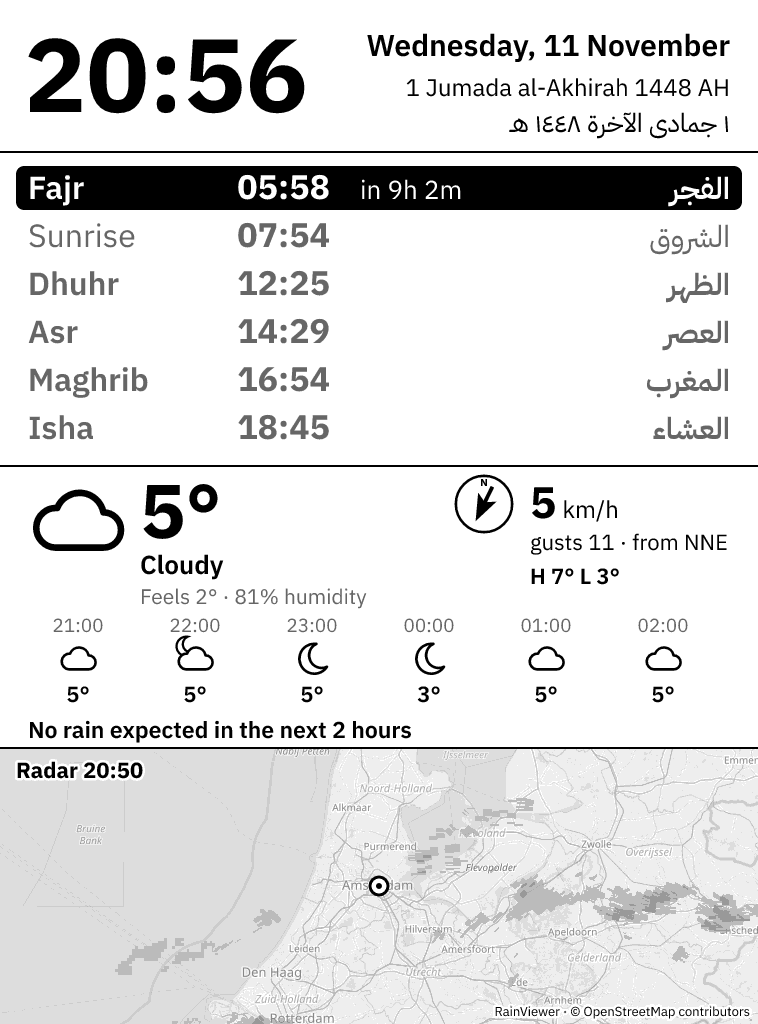
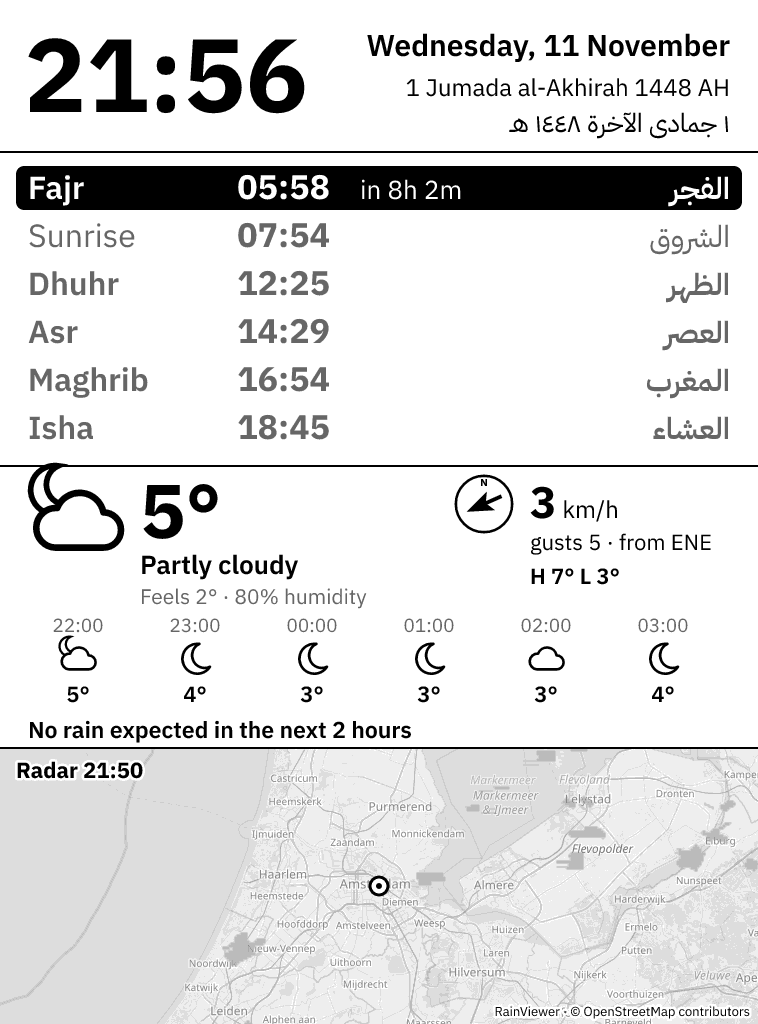
Zoom the map past 7 by magnifying RainViewer's zoom-7 radar
RainViewer's free tiles stop at zoom 7 (~300 km across), which is too wide
for a home dashboard. The basemap now renders at zoom 3..=9 (default 8),
and radar tiles for the same area are fetched at zoom 7 and magnified with
bilinear smoothing.

diff --git a/src/radar/mod.rs b/src/radar/mod.rs
@@ -1,7 +1,8 @@
 //! Rain radar from RainViewer over an OpenStreetMap basemap, as one grayscale image.
 //!
 //! Both layers share one Web Mercator pixel space: RainViewer 512 px tiles at zoom `z`
-//! line up with OSM 256 px tiles at `z + 1`.
+//! line up with OSM 256 px tiles at `z + 1`. RainViewer stops at zoom 7, so deeper maps
+//! fetch its zoom-7 tiles for the same area and magnify them.
 
 mod palette;
 
@@ -52,6 +53,26 @@ impl Viewport {
         }
     }
 
+    /// The same area at `zoom` (no deeper than this one), one pixel larger on each axis
+    /// so magnifying it back covers every edge pixel.
+    fn coarser(&self, zoom: Zoom) -> Coarse {
+        let factor = 1u32 << (self.zoom.level() - zoom.level());
+        let scale = f64::from(factor);
+        let viewport = Viewport {
+            left: (self.left / scale).floor(),
+            top: (self.top / scale).floor(),
+            width: self.width.div_ceil(factor) + 1,
+            height: self.height.div_ceil(factor) + 1,
+            zoom,
+        };
+        Coarse {
+            factor,
+            left: (self.left - viewport.left * scale) as i64,
+            top: (self.top - viewport.top * scale) as i64,
+            viewport,
+        }
+    }
+
     /// Tiles of `tile_px` that cover the viewport, and where each lands in it.
     fn placements(&self, tile_px: u32) -> Vec<Placement> {
         let size = f64::from(tile_px);
@@ -75,6 +96,15 @@ impl Viewport {
 
 fn world_size(zoom: Zoom) -> f64 {
     f64::from(RADAR_TILE) * f64::from(1u32 << zoom.level())
+}
+
+/// A lower-zoom viewport and where the original sits inside it once magnified.
+#[derive(Debug, Clone, Copy, PartialEq)]
+struct Coarse {
+    viewport: Viewport,
+    factor: u32,
+    left: i64,
+    top: i64,
 }
 
 #[derive(Debug, Clone, Copy, PartialEq, Eq)]
@@ -164,22 +194,34 @@ impl RadarClient {
             .context("RainViewer returned no radar frames")?;
         let observed_at =
             DateTime::from_timestamp(frame.time, 0).context("radar frame time out of range")?;
-        let zoom = viewport.zoom.level();
+        let coarse = viewport.coarser(viewport.zoom.radar());
+        let zoom = coarse.viewport.zoom.level();
+        let blank = Gray::filled(coarse.viewport.width, coarse.viewport.height, 255);
         // Options `0_0`: unsmoothed, so pixels match the palette exactly; no separate snow colors.
+        let rain = self
+            .composite(
+                &coarse.viewport,
+                RADAR_TILE,
+                blank,
+                rain_gray,
+                replace,
+                |p| {
+                    format!(
+                        "{}{}/{RADAR_TILE}/{zoom}/{}/{}/2/0_0.png",
+                        maps.host, frame.path, p.x, p.y
+                    )
+                },
+            )?
+            .magnified(
+                coarse.factor,
+                coarse.left,
+                coarse.top,
+                viewport.width,
+                viewport.height,
+            );
         // The darker value wins so map labels stay visible under rain.
-        let map = self.composite(
-            viewport,
-            RADAR_TILE,
-            basemap.0.clone(),
-            rain_gray,
-            u8::min,
-            |p| {
-                format!(
-                    "{}{}/{RADAR_TILE}/{zoom}/{}/{}/2/0_0.png",
-                    maps.host, frame.path, p.x, p.y
-                )
-            },
-        )?;
+        let mut map = basemap.0.clone();
+        map.blit(&rain, 0, 0, u8::min);
         Ok(RadarImage { observed_at, map })
     }
 
@@ -260,6 +302,25 @@ mod tests {
                 .iter()
                 .all(|&(x, y)| covered(x, y) == 1)
         );
+    }
+
+    #[test]
+    fn coarser_viewport_covers_the_same_area() {
+        let zoom = Zoom::try_from(9).unwrap();
+        let v = Viewport::centered(&location(41.0, -71.0), zoom, 758, 276);
+        let c = v.coarser(zoom.radar());
+        assert_eq!(c.factor, 4);
+        assert_eq!(c.viewport.zoom.level(), 7);
+        let s = f64::from(c.factor);
+        assert!((0..4).contains(&c.left) && (0..4).contains(&c.top));
+        assert!(c.viewport.left * s <= v.left && c.viewport.top * s <= v.top);
+        let right = (c.viewport.left + f64::from(c.viewport.width)) * s;
+        let bottom = (c.viewport.top + f64::from(c.viewport.height)) * s;
+        assert!(right >= v.left + f64::from(v.width) && bottom >= v.top + f64::from(v.height));
+        // At the radar's own zoom nothing is magnified.
+        let same = Viewport::centered(&location(41.0, -71.0), Zoom::try_from(7).unwrap(), 758, 276);
+        let c = same.coarser(Zoom::try_from(7).unwrap());
+        assert_eq!((c.factor, c.left, c.top), (1, 0, 0));
     }
 
     #[test]

diff --git a/src/image.rs b/src/image.rs
@@ -39,6 +39,35 @@ impl Gray {
         });
     }
 
+    /// A `width`×`height` window of this image magnified `factor` times, starting
+    /// `(left, top)` magnified pixels in, with bilinear smoothing. Edges are clamped.
+    pub fn magnified(&self, factor: u32, left: i64, top: i64, width: u32, height: u32) -> Gray {
+        let scale = f64::from(factor);
+        // Source coordinate of an output pixel's center.
+        let source = |out: u32, offset: i64, len: u32| {
+            let u = ((f64::from(out) + offset as f64 + 0.5) / scale - 0.5)
+                .clamp(0.0, f64::from(len - 1));
+            let i = u.floor() as u32;
+            (i, (i + 1).min(len - 1), u - f64::from(i))
+        };
+        let at = |x: u32, y: u32| f64::from(self.pixels[(y * self.width + x) as usize]);
+        let pixels = (0..height)
+            .flat_map(|y| (0..width).map(move |x| (x, y)))
+            .map(|(x, y)| {
+                let (x0, x1, fx) = source(x, left, self.width);
+                let (y0, y1, fy) = source(y, top, self.height);
+                let top_row = at(x0, y0) * (1.0 - fx) + at(x1, y0) * fx;
+                let bottom_row = at(x0, y1) * (1.0 - fx) + at(x1, y1) * fx;
+                (top_row * (1.0 - fy) + bottom_row * fy).round() as u8
+            })
+            .collect();
+        Gray {
+            width,
+            height,
+            pixels,
+        }
+    }
+
     pub fn encode_png(&self) -> anyhow::Result<Vec<u8>> {
         let mut out = Vec::new();
         let mut encoder = png::Encoder::new(&mut out, self.width, self.height);
@@ -127,6 +156,27 @@ mod tests {
         );
         canvas.blit(&tile, 10, 0, replace);
         canvas.blit(&tile, -10, 0, replace);
+    }
+
+    #[test]
+    fn magnify_by_one_is_a_crop() {
+        let image = Gray {
+            width: 3,
+            height: 2,
+            pixels: vec![0, 10, 20, 30, 40, 50],
+        };
+        assert_eq!(image.magnified(1, 1, 0, 2, 2).pixels, vec![10, 20, 40, 50]);
+    }
+
+    #[test]
+    fn magnify_interpolates_between_pixels() {
+        let image = Gray {
+            width: 2,
+            height: 1,
+            pixels: vec![0, 200],
+        };
+        let wide = image.magnified(2, 0, 0, 4, 1);
+        assert_eq!(wide.pixels, vec![0, 50, 150, 200]);
     }
 
     #[test]

diff --git a/src/config.rs b/src/config.rs
@@ -194,28 +194,36 @@ pub struct RadarConfig {
 
 impl Default for RadarConfig {
     fn default() -> Self {
-        Self { zoom: Zoom(7) }
+        Self { zoom: Zoom(8) }
     }
 }
 
-/// RainViewer's free tiles stop at zoom 7 (since 2026); below 3 the map is a continent.
-#[derive(Debug, Clone, Copy, PartialEq, Eq, Deserialize)]
+/// Map zoom. Below 3 the map is a continent; past 9 the upscaled radar is mush.
+#[derive(Debug, Clone, Copy, PartialEq, Eq, PartialOrd, Ord, Deserialize)]
 #[serde(try_from = "u8")]
 pub struct Zoom(u8);
+
+/// RainViewer's free tiles stop at zoom 7 (since 2026); deeper maps upscale its radar.
+const MAX_RADAR_ZOOM: Zoom = Zoom(7);
 
 impl Zoom {
     pub fn level(self) -> u8 {
         self.0
+    }
+
+    /// The zoom radar tiles are fetched at.
+    pub fn radar(self) -> Zoom {
+        self.min(MAX_RADAR_ZOOM)
     }
 }
 
 impl TryFrom<u8> for Zoom {
     type Error = String;
     fn try_from(value: u8) -> Result<Self, Self::Error> {
-        (3..=7)
+        (3..=9)
             .contains(&value)
             .then_some(Self(value))
-            .ok_or_else(|| format!("radar zoom {value} is outside 3..=7"))
+            .ok_or_else(|| format!("radar zoom {value} is outside 3..=9"))
     }
 }
 
@@ -256,14 +264,14 @@ mod tests {
     fn example_config_parses() {
         let config: Config = toml::from_str(include_str!("../config.example.toml")).unwrap();
         assert_eq!(config.prayer.method, CalculationMethod::MuslimWorldLeague);
-        assert_eq!(config.radar.zoom.level(), 7);
+        assert_eq!(config.radar.zoom.level(), 8);
     }
 
     #[test]
     fn rejects_out_of_range_values() {
         let base = "[location]\nlatitude = 91.0\nlongitude = 0.0\ntimezone = \"UTC\"\n[prayer]\nmethod = \"egyptian\"\n";
         assert!(toml::from_str::<Config>(base).is_err());
-        let zoom = base.replace("91.0", "30.0") + "[radar]\nzoom = 9\n";
+        let zoom = base.replace("91.0", "30.0") + "[radar]\nzoom = 10\n";
         assert!(toml::from_str::<Config>(&zoom).is_err());
         let tz = base.replace("91.0", "30.0").replace("UTC", "Mars/Olympus");
         assert!(toml::from_str::<Config>(&tz).is_err());

diff --git a/README.md b/README.md
@@ -102,7 +102,7 @@ See [`config.example.toml`](config.example.toml):
 | `prayer.adjust_minutes` | per-prayer offsets, to match a mosque timetable |
 | `prayer.hijri_offset_days` | shift the tabular Hijri date to match local sighting |
 | `weather.temperature_unit` / `wind_unit` | `celsius`/`fahrenheit`; `kmh`/`ms`/`mph`/`kn` |
-| `radar.zoom` | 3–7. RainViewer's free tiles stop at 7, which shows ~280 km across |
+| `radar.zoom` | 3–9, default 8 (~150 km across). Radar past 7 is RainViewer's zoom-7 data upscaled, since its free tiles stop there |
 | `display.clock` | `12h`, `24h` |
 
 ## Data and credits
